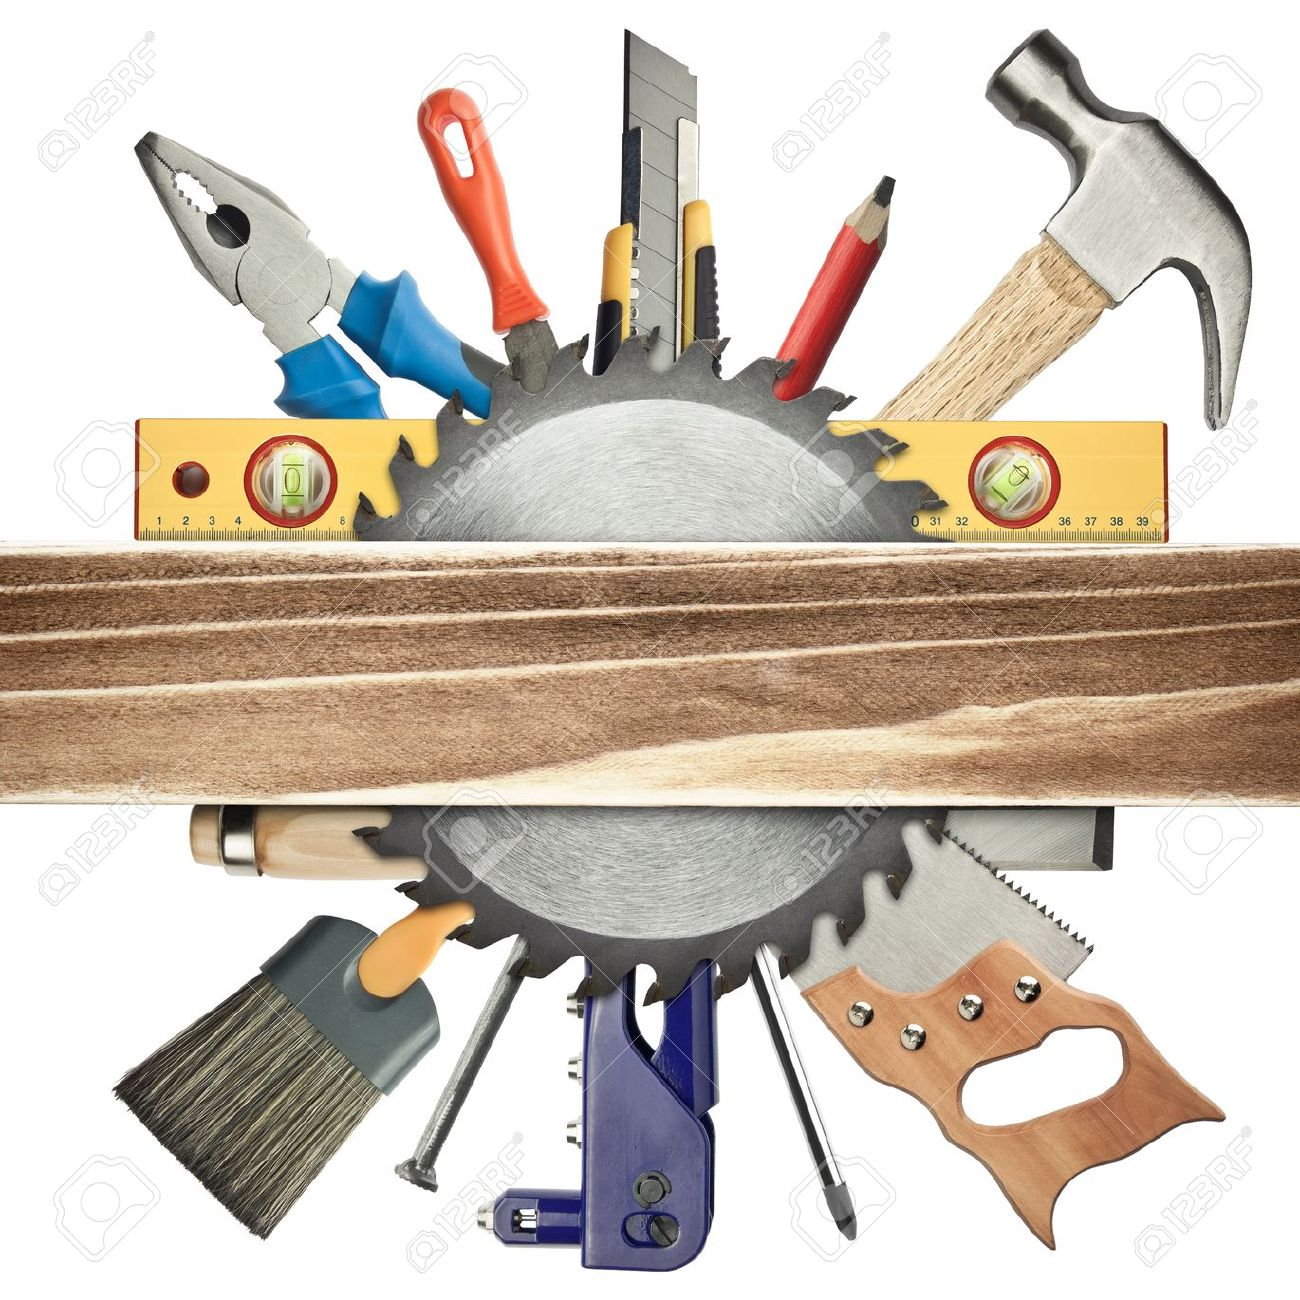
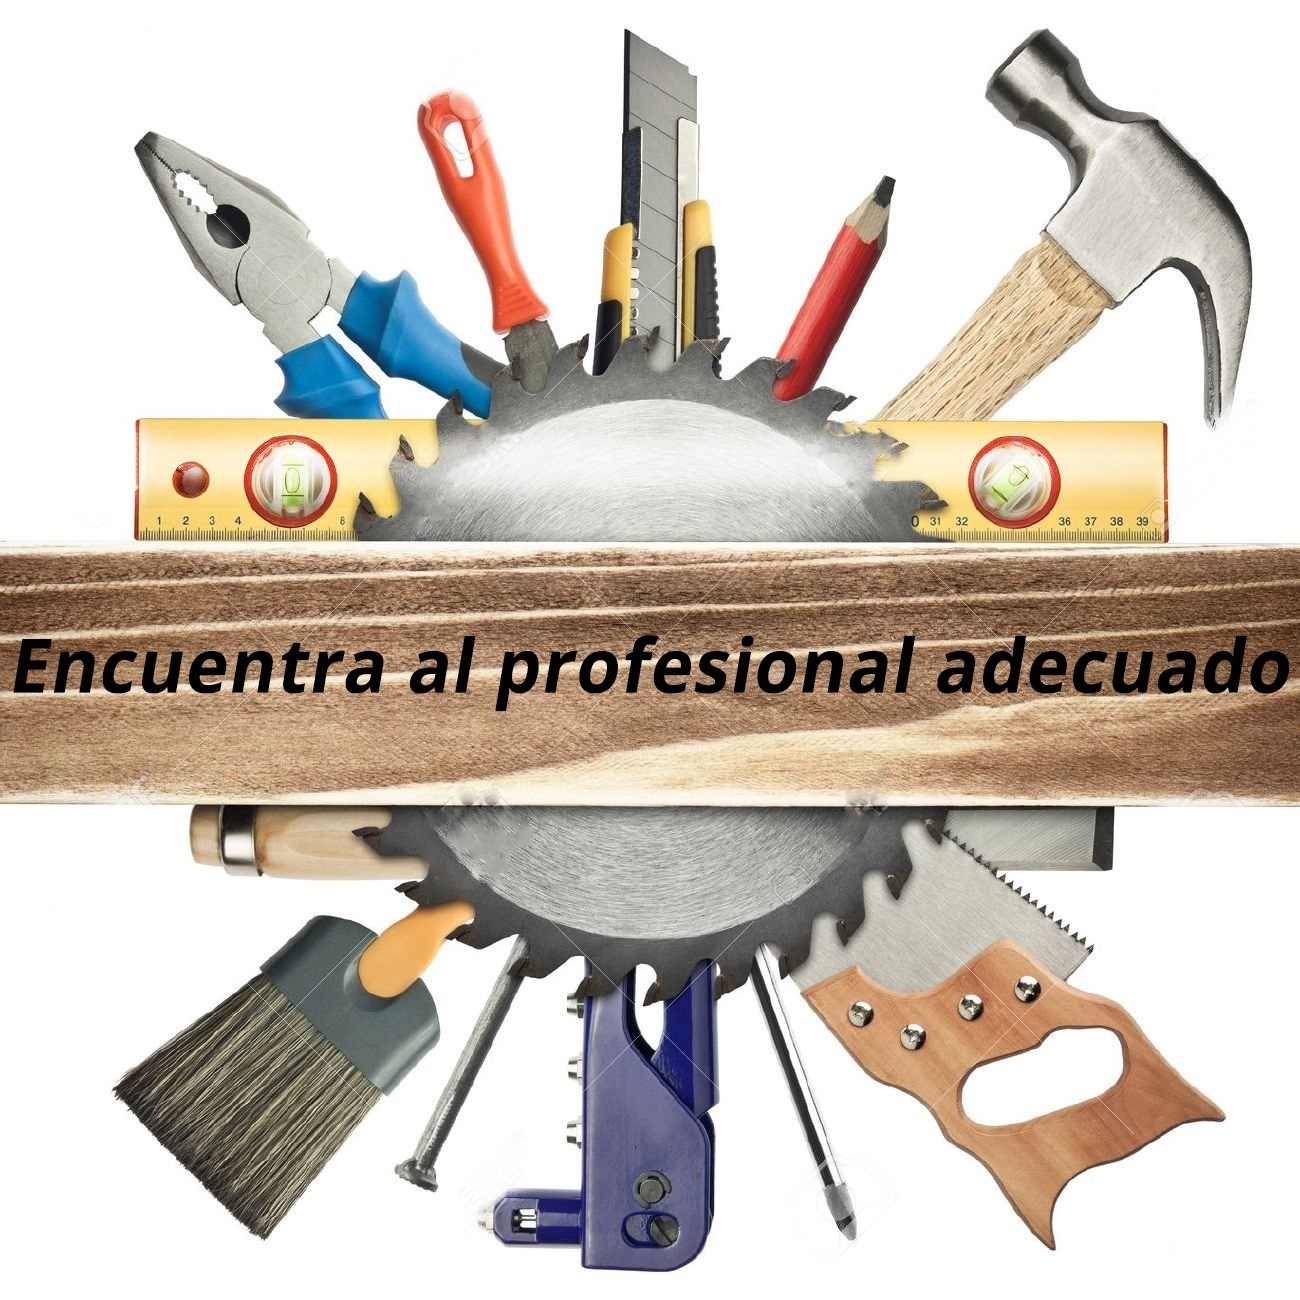
Ultimos retoques, todo funcionando

diff --git a/client/src/component/perfil/Perfilpro.jsx b/client/src/component/perfil/Perfilpro.jsx
@@ -36,7 +36,7 @@ export default class Perfilpro extends Component {
               Empresa:
               <input
                 type="text"
-                className="form-group"
+                className="form-control"
                 placeholder={this.props.userInSession.empresa}
               />
             </div>
@@ -44,7 +44,7 @@ export default class Perfilpro extends Component {
               Nombre:
               <input
                 type="text"
-                className="form-group"
+                className="form-control"
                 placeholder={this.props.userInSession.name}
               />
             </div>
@@ -52,7 +52,7 @@ export default class Perfilpro extends Component {
               Email:
               <input
                 type="text"
-                className="form-group"
+                className="form-control"
                 placeholder={this.props.userInSession.email}
               />
             </div>
@@ -60,7 +60,7 @@ export default class Perfilpro extends Component {
               Teléfono:
               <input
                 type="number"
-                className="form-group"
+                className="form-control"
                 placeholder={this.props.userInSession.phone}
               />
             </div>
@@ -68,7 +68,7 @@ export default class Perfilpro extends Component {
               Ubicación:
               <input
                 type="text"
-                className="form-group"
+                className="form-control"
                 placeholder={this.props.userInSession.ubication}
               />
             </div>

diff --git a/client/src/component/Profesionales.jsx b/client/src/component/Profesionales.jsx
@@ -82,15 +82,17 @@ export default class Profesionales extends Component {
                 <p className="title">{profesional.empresa}</p>
                 <p className="direction">{profesional.ubication}</p>
                 <p>{profesional.phone}</p>
-                <button
-                  type="button"
-                  className="linkChat"
-                  onClick={e => {
-                    this.createRelation(profesional);
-                  }}
-                >
-                  Contactar
-                </button>
+                <Link to="/works/perfiluser">
+                  <button
+                    type="button"
+                    className="linkChat"
+                    onClick={e => {
+                      this.createRelation(profesional);
+                    }}
+                  >
+                    Contactar
+                  </button>
+                </Link>
               </div>
             </div>
           ))}

diff --git a/client/src/component/Home.jsx b/client/src/component/Home.jsx
@@ -8,14 +8,13 @@ export default class Home extends Component {
       <div>
         <div className="App">
           <div>
-            <Link className="profesionales" to="/works/profesionales">
-              <h1>Encuentra al profesional adecuado</h1>
+            <Link to="/works/profesionales">
+              <img
+                className="imgPrincipal"
+                src="../../images/principal.jpg"
+                alt="imagen principal"
+              />
             </Link>
-            <img
-              className="imgPrincipal"
-              src="../../images/principal.jpg"
-              alt="imagen principal"
-            />
           </div>
 
           <div />

diff --git a/client/src/component/perfil/Perfiluser.jsx b/client/src/component/perfil/Perfiluser.jsx
@@ -59,7 +59,7 @@ export default class Perfiluser extends Component {
               Ubicación:{" "}
               <input
                 type="text"
-                className="form-control ancho"
+                className="form-control"
                 placeholder={this.props.userInSession.ubication}
               />
             </div>
@@ -75,7 +75,6 @@ export default class Perfiluser extends Component {
               <div>
                 <p>Empresa: {presupuesto.profesional.empresa}</p>
                 <p>Teléfono: {presupuesto.profesional.phone}</p>
-                <hr />
               </div>
             </div>
           ))}

diff --git a/client/src/component/perfil/Perfilpro.css b/client/src/component/perfil/Perfilpro.css
@@ -22,3 +22,8 @@
   border: 1px solid blue;
   border-radius: 20px;
 }
+
+.cadaPresu {
+  border: 1px solid black;
+  padding: 5px;
+}

diff --git a/client/src/component/perfil/Perfiluser.css b/client/src/component/perfil/Perfiluser.css
@@ -22,3 +22,8 @@
   border: 1px solid blue;
   border-radius: 20px;
 }
+
+.cadaPresu {
+  border: 1px solid black;
+  padding: 5px;
+}
